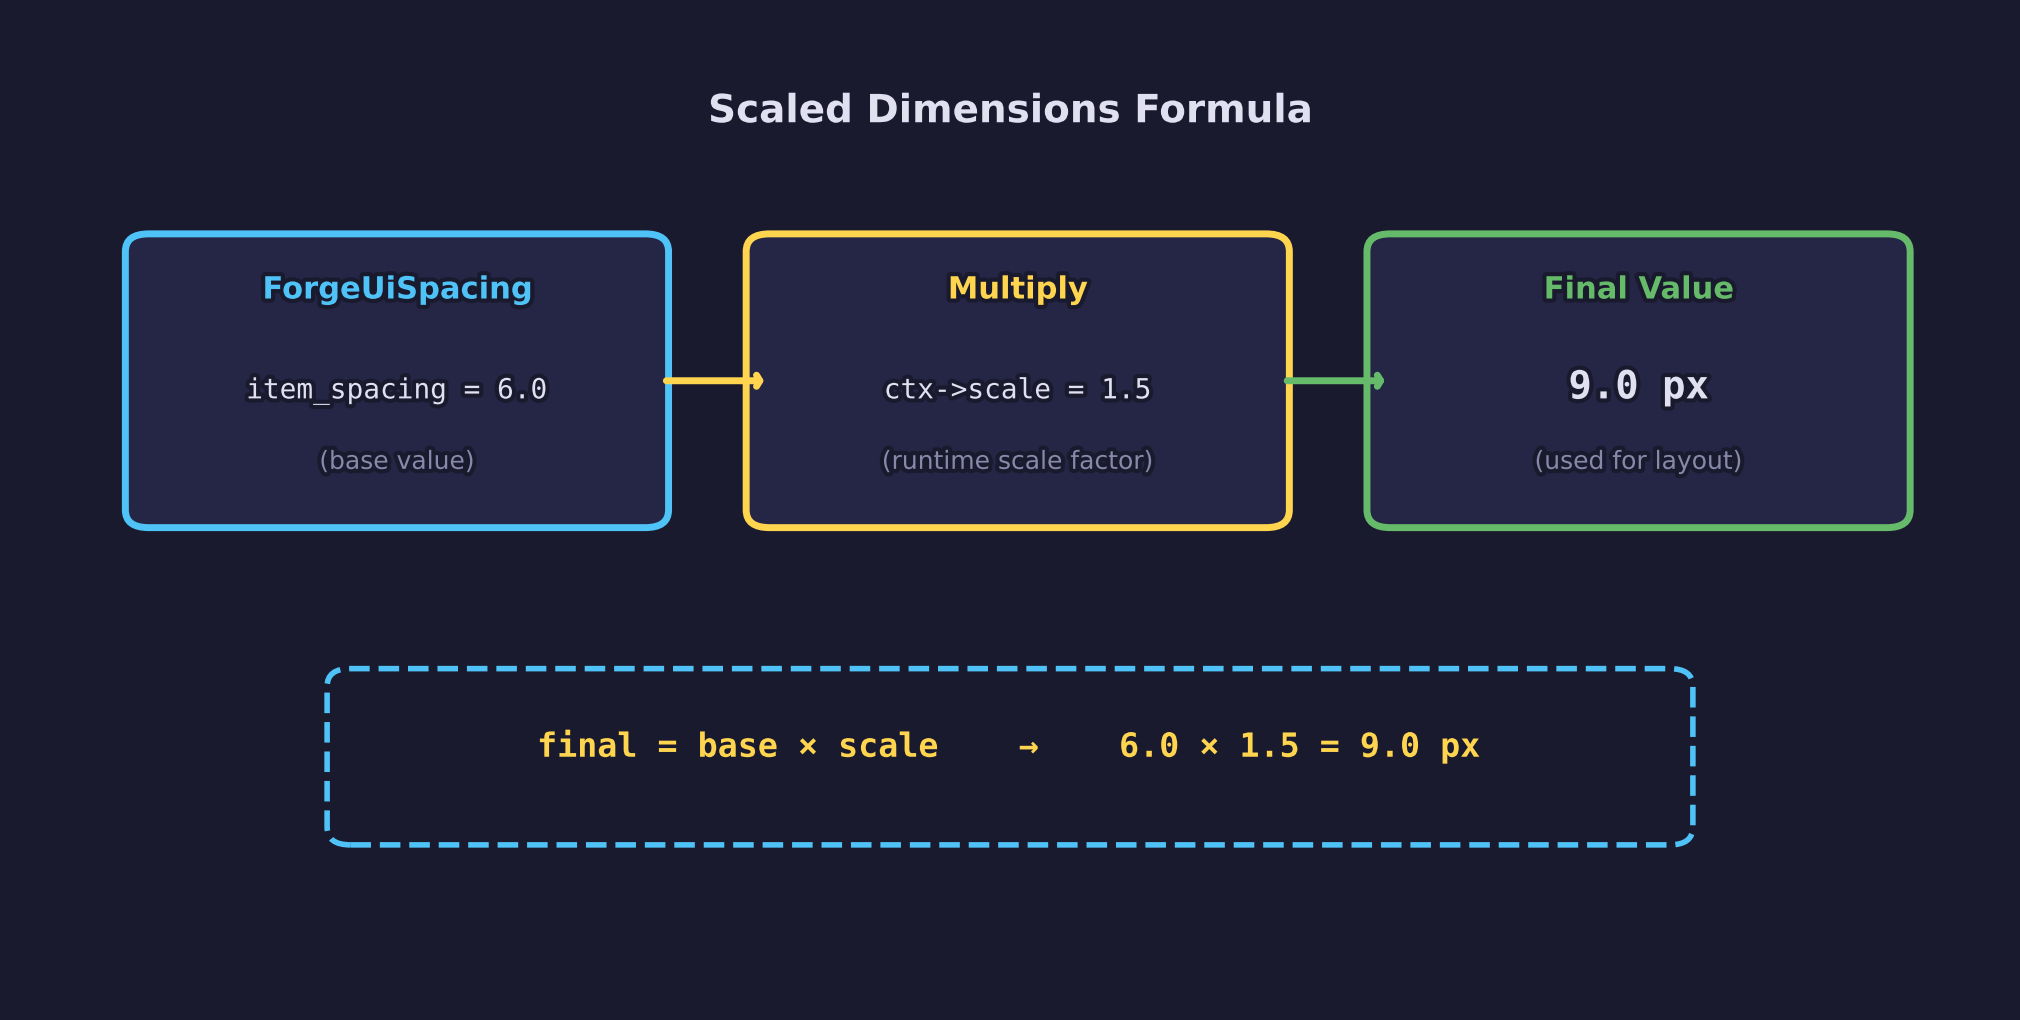
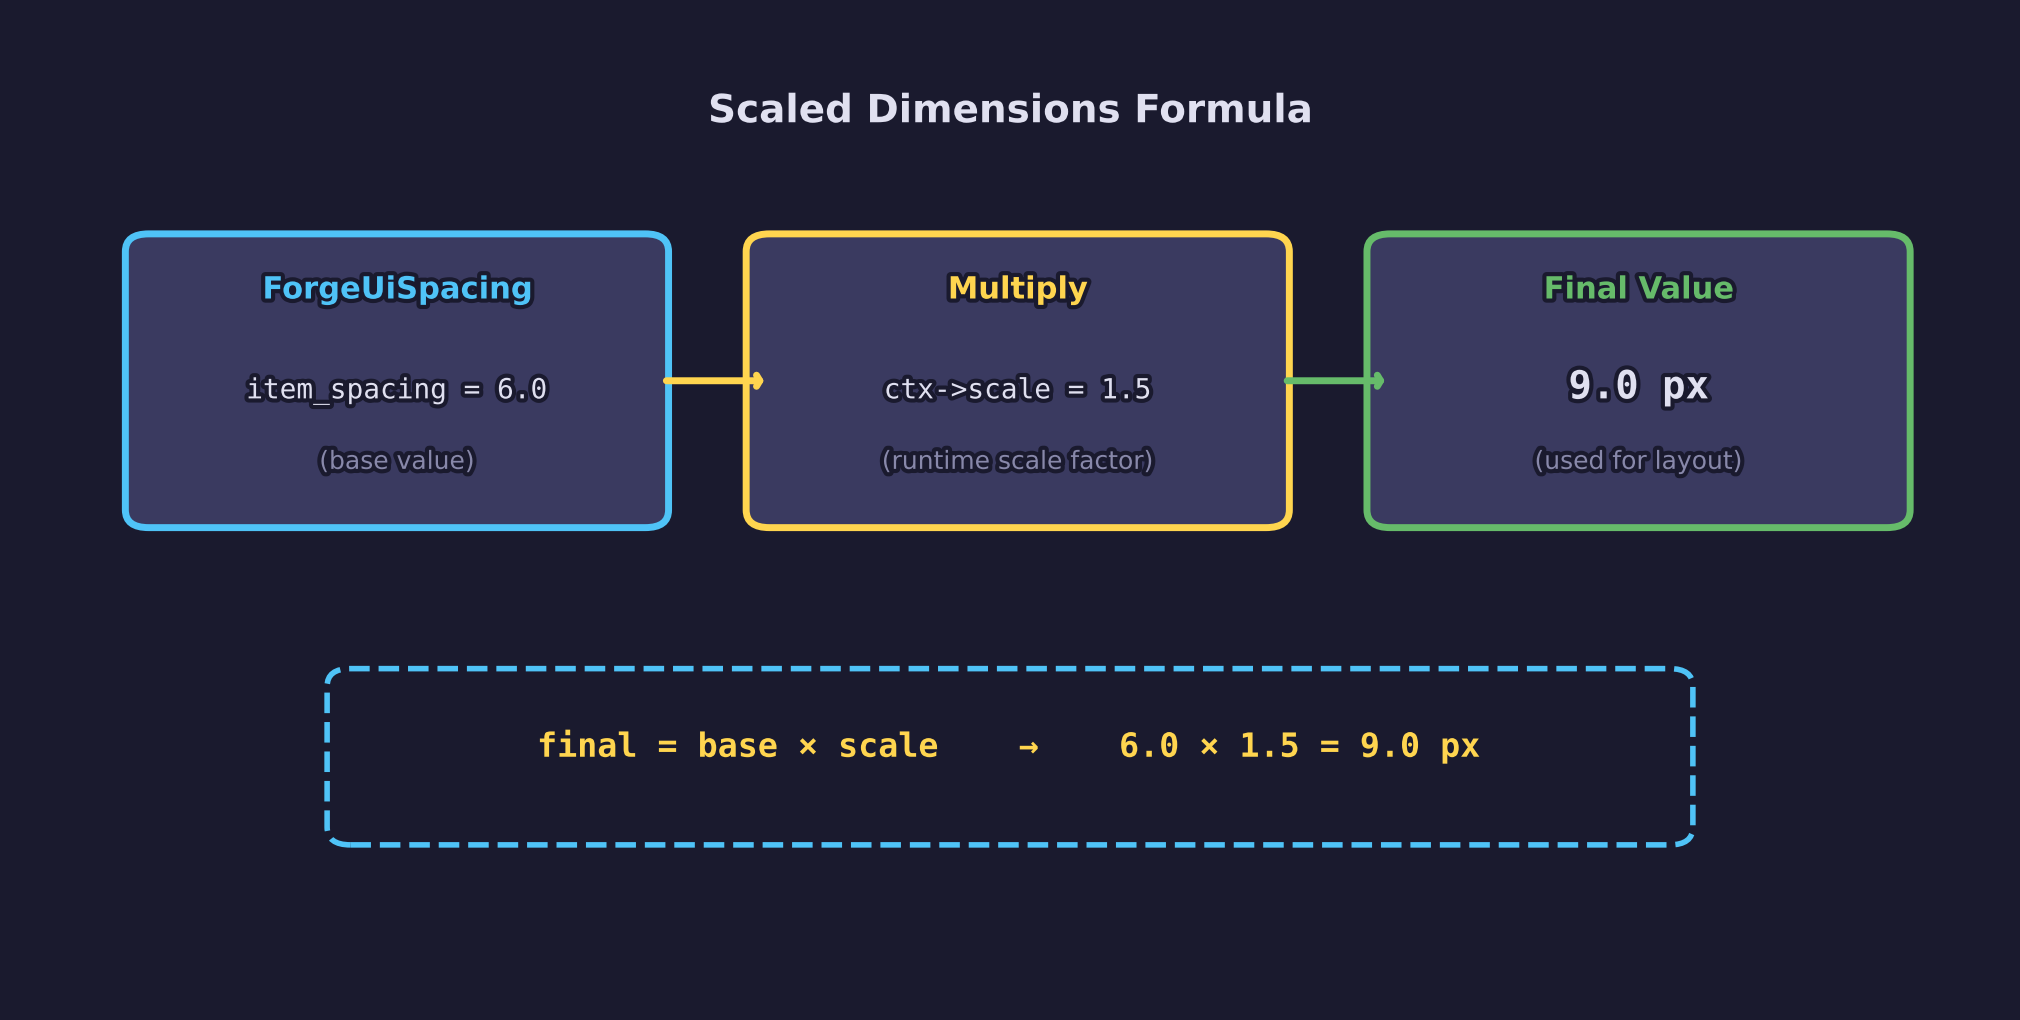
Improve UI widget contrast and address re-review feedback
Increase color contrast between panel backgrounds and interactive
widgets — title bars, buttons, slider tracks, and checkbox boxes were
all within ~8 RGB units of the panel body, making them indistinguishable.
New values give 16-30 units of separation per channel:

  - Title bar BG: +45% brighter than panel
  - Button normal: +30% brighter
  - Slider track: +30% brighter
  - Checkbox normal: +25% brighter

Also fixes the scaled_dimensions_formula diagram where box fills
(STYLE["surface"] #252545) were only 11 RGB units from the background
(#1a1a2e) — now uses #3a3a60 for clear visibility.

Addresses CodeRabbit re-review feedback:
  - Replace hardcoded loop bound 10 with sizeof-derived count
  - Add FORGE_UI_LAYOUT_EXPLICIT_ZERO constant for -1.0f sentinel
  - Add rects and memory cross-references to Further reading
  - Named constants for ASCII codepoint magic numbers in main.c

Changed region(s): [[0.3743, 0.2127, 0.9668, 0.5167], [0.0624, 0.2127, 0.3431, 0.5167]]

diff --git a/common/ui/forge_ui_ctx.h b/common/ui/forge_ui_ctx.h
@@ -57,6 +57,12 @@
  * must use non-zero IDs for their widgets. */
 #define FORGE_UI_ID_NONE  0
 
+/* Layout sentinel: pass as padding to forge_ui_ctx_layout_push to request
+ * explicit zero padding (no themed default substitution).  Positive values
+ * override the themed default; zero uses the themed default; this negative
+ * sentinel is clamped to 0 internally but skips the "use theme" path. */
+#define FORGE_UI_LAYOUT_EXPLICIT_ZERO  -1.0f
+
 /* Maximum nesting depth for the ID seed stack.  8 levels is enough for
  * most UI hierarchies (e.g. window > panel > row > widget).  The stack
  * is bounds-checked at runtime with SDL_Log on overflow/underflow. */
@@ -66,15 +72,16 @@
 
 /* Button appearance varies with interaction state.  Colors follow the
  * project's dark blue-gray theme (#1a1a2e background, #4fc3f7 accent).
- * All values are RGBA floats in [0, 1]. */
-#define FORGE_UI_BTN_NORMAL_R   0.145f
-#define FORGE_UI_BTN_NORMAL_G   0.176f
-#define FORGE_UI_BTN_NORMAL_B   0.290f
+ * Button normal is ~30% brighter than panel BG so it stands out as an
+ * interactive element.  All values are RGBA floats in [0, 1]. */
+#define FORGE_UI_BTN_NORMAL_R   0.180f
+#define FORGE_UI_BTN_NORMAL_G   0.216f
+#define FORGE_UI_BTN_NORMAL_B   0.353f
 #define FORGE_UI_BTN_NORMAL_A   1.00f
 
-#define FORGE_UI_BTN_HOT_R      0.180f
-#define FORGE_UI_BTN_HOT_G      0.220f
-#define FORGE_UI_BTN_HOT_B      0.376f
+#define FORGE_UI_BTN_HOT_R      0.224f
+#define FORGE_UI_BTN_HOT_G      0.271f
+#define FORGE_UI_BTN_HOT_B      0.427f
 #define FORGE_UI_BTN_HOT_A      1.00f
 
 #define FORGE_UI_BTN_ACTIVE_R   0.102f
@@ -102,20 +109,21 @@
  * ForgeUiSpacing.widget_padding. */
 #define FORGE_UI_WIDGET_PADDING   8.0f
 
-/* Box outline colors by state — themed dark navy (RGBA floats in [0, 1]) */
-#define FORGE_UI_CB_NORMAL_R    0.165f
-#define FORGE_UI_CB_NORMAL_G    0.200f
-#define FORGE_UI_CB_NORMAL_B    0.314f
+/* Box outline colors by state — brighter than panel BG so the unchecked
+ * box is clearly visible against the panel body.  (RGBA floats in [0, 1]) */
+#define FORGE_UI_CB_NORMAL_R    0.204f
+#define FORGE_UI_CB_NORMAL_G    0.247f
+#define FORGE_UI_CB_NORMAL_B    0.392f
 #define FORGE_UI_CB_NORMAL_A    1.00f
 
-#define FORGE_UI_CB_HOT_R       0.227f
-#define FORGE_UI_CB_HOT_G       0.290f
-#define FORGE_UI_CB_HOT_B       0.416f
+#define FORGE_UI_CB_HOT_R       0.267f
+#define FORGE_UI_CB_HOT_G       0.329f
+#define FORGE_UI_CB_HOT_B       0.475f
 #define FORGE_UI_CB_HOT_A       1.00f
 
-#define FORGE_UI_CB_ACTIVE_R    0.118f
-#define FORGE_UI_CB_ACTIVE_G    0.157f
-#define FORGE_UI_CB_ACTIVE_B    0.259f
+#define FORGE_UI_CB_ACTIVE_R    0.145f
+#define FORGE_UI_CB_ACTIVE_G    0.180f
+#define FORGE_UI_CB_ACTIVE_B    0.298f
 #define FORGE_UI_CB_ACTIVE_A    1.00f
 
 /* Inner fill color when checked (accent cyan #4fc3f7) */
@@ -141,10 +149,11 @@
 #define FORGE_UI_SL_THUMB_WIDTH   12.0f   /* thumb rectangle width */
 #define FORGE_UI_SL_THUMB_HEIGHT  22.0f   /* thumb rectangle height */
 
-/* Track background color — themed dark navy */
-#define FORGE_UI_SL_TRACK_R     0.145f
-#define FORGE_UI_SL_TRACK_G     0.176f
-#define FORGE_UI_SL_TRACK_B     0.290f
+/* Track background color — brighter than panel BG so the slider rail
+ * is visible inside the panel body. */
+#define FORGE_UI_SL_TRACK_R     0.180f
+#define FORGE_UI_SL_TRACK_G     0.216f
+#define FORGE_UI_SL_TRACK_B     0.353f
 #define FORGE_UI_SL_TRACK_A     1.00f
 
 /* Thumb color varies with interaction state to give visual feedback
@@ -228,10 +237,11 @@
 #define FORGE_UI_PANEL_BG_B     0.282f
 #define FORGE_UI_PANEL_BG_A     1.00f
 
-/* Title bar background RGBA — brighter navy to distinguish from body */
-#define FORGE_UI_PANEL_TITLE_BG_R   0.145f
-#define FORGE_UI_PANEL_TITLE_BG_G   0.188f
-#define FORGE_UI_PANEL_TITLE_BG_B   0.314f
+/* Title bar background RGBA — notably brighter than panel BG so the
+ * header is the most prominent chrome element.  ~45% brighter. */
+#define FORGE_UI_PANEL_TITLE_BG_R   0.200f
+#define FORGE_UI_PANEL_TITLE_BG_G   0.243f
+#define FORGE_UI_PANEL_TITLE_BG_B   0.400f
 #define FORGE_UI_PANEL_TITLE_BG_A   1.00f
 
 /* Title bar text color — matches theme text #e0e0f0 */
@@ -1370,7 +1380,7 @@ static inline void forge_ui_ctx_begin(ForgeUiContext *ctx,
             { &ctx->spacing.text_input_padding,  FORGE_UI_TI_PADDING,          "text_input_padding" },
             { &ctx->spacing.scrollbar_width,     FORGE_UI_SCROLLBAR_WIDTH,     "scrollbar_width" },
         };
-        for (int i = 0; i < 10; i++) {
+        for (int i = 0; i < (int)(sizeof(checks) / sizeof(checks[0])); i++) {
             if (!isfinite(*checks[i].field) || *checks[i].field < 0.0f) {
                 SDL_Log("forge_ui_ctx_begin: invalid spacing.%s = %.4f, "
                         "resetting to %.1f",
@@ -2452,12 +2462,13 @@ static inline bool forge_ui_ctx_panel_begin(ForgeUiContext *ctx,
     /* ── Push a vertical layout (no extra padding, 8px spacing between
      *    child widgets) so children fill the content width and stack
      *    downward with consistent gaps. ───────────────────────────────── */
-    /* Pass -1 for padding so layout_push treats it as explicit zero
-     * (no default substitution) — the content rect already accounts
-     * for panel padding.  Spacing uses the themed item_spacing. */
+    /* Pass FORGE_UI_LAYOUT_EXPLICIT_ZERO for padding so layout_push
+     * treats it as explicit zero (no default substitution) — the
+     * content rect already accounts for panel padding.  Spacing uses
+     * the themed item_spacing. */
     if (!forge_ui_ctx_layout_push(ctx, content,
                                    FORGE_UI_LAYOUT_VERTICAL,
-                                   -1.0f,
+                                   FORGE_UI_LAYOUT_EXPLICIT_ZERO,
                                    FORGE_UI_SCALED(ctx, ctx->spacing.item_spacing))) {
         SDL_Log("forge_ui_ctx_panel_begin: layout_push failed (stack full?)");
         ctx->has_clip = false;

diff --git a/lessons/ui/12-font-scaling-and-spacing/main.c b/lessons/ui/12-font-scaling-and-spacing/main.c
@@ -64,13 +64,17 @@
 #define ACCENT_B  0.969f
 #define ACCENT_A  1.00f
 
-/* ASCII printable codepoints (32-126) for atlas building */
-static Uint32 codepoints[95];
+/* ASCII printable codepoints (space 0x20 through tilde 0x7E) */
+#define ASCII_PRINTABLE_START  32   /* first printable ASCII codepoint (space) */
+#define ASCII_PRINTABLE_COUNT  95   /* number of printable ASCII chars (32-126) */
+#define ATLAS_GLYPH_PADDING     2   /* pixels between packed glyphs in atlas */
+
+static Uint32 codepoints[ASCII_PRINTABLE_COUNT];
 
 static void init_codepoints(void)
 {
-    for (int i = 0; i < 95; i++) {
-        codepoints[i] = (Uint32)(32 + i);
+    for (int i = 0; i < ASCII_PRINTABLE_COUNT; i++) {
+        codepoints[i] = (Uint32)(ASCII_PRINTABLE_START + i);
     }
 }
 
@@ -125,7 +129,8 @@ static bool scaled_ui_init(ScaledUI *sui, const ForgeUiFont *font,
      * must be rebuilt at the target size, not stretched. */
     float atlas_px = BASE_PIXEL_HEIGHT * scale;
 
-    if (!forge_ui_atlas_build(font, atlas_px, codepoints, 95, 2,
+    if (!forge_ui_atlas_build(font, atlas_px, codepoints,
+                              ASCII_PRINTABLE_COUNT, ATLAS_GLYPH_PADDING,
                               &sui->atlas)) {
         SDL_Log("Failed to build atlas at scale %.2f", (double)scale);
         return false;

diff --git a/scripts/forge_diagrams/ui_diagrams.py b/scripts/forge_diagrams/ui_diagrams.py
@@ -9897,6 +9897,11 @@ def diagram_scaled_dimensions_formula():
     ax.axis("off")
     stroke = [pe.withStroke(linewidth=3, foreground=STYLE["bg"])]
 
+    # Lighter fill for boxes so they are clearly distinguishable from the
+    # diagram background (#1a1a2e).  STYLE["surface"] (#252545) is only ~11
+    # RGB units brighter — not enough.  #3a3a60 gives ~32 units of contrast.
+    box_fill = "#3a3a60"
+
     ax.text(
         5.75,
         6.3,
@@ -9916,7 +9921,7 @@ def diagram_scaled_dimensions_formula():
         box1_w,
         box1_h,
         boxstyle="round,pad=0.15",
-        facecolor=STYLE["surface"],
+        facecolor=box_fill,
         edgecolor=STYLE["accent1"],
         linewidth=2.5,
     )
@@ -9971,7 +9976,7 @@ def diagram_scaled_dimensions_formula():
         box2_w,
         box2_h,
         boxstyle="round,pad=0.15",
-        facecolor=STYLE["surface"],
+        facecolor=box_fill,
         edgecolor=STYLE["warn"],
         linewidth=2.5,
     )
@@ -10026,7 +10031,7 @@ def diagram_scaled_dimensions_formula():
         box3_w,
         box3_h,
         boxstyle="round,pad=0.15",
-        facecolor=STYLE["surface"],
+        facecolor=box_fill,
         edgecolor=STYLE["accent3"],
         linewidth=2.5,
     )

diff --git a/common/ui/forge_ui_window.h b/common/ui/forge_ui_window.h
@@ -906,12 +906,13 @@ static inline bool forge_ui_wctx_window_begin(ForgeUiWindowContext *wctx,
     ctx->_panel.id = id;
     ctx->_panel_active = true;
 
-    /* Pass -1 for padding so layout_push treats it as explicit zero
-     * (no default substitution) — the content rect already accounts
-     * for window padding.  Spacing uses the themed item_spacing. */
+    /* Pass FORGE_UI_LAYOUT_EXPLICIT_ZERO for padding so layout_push
+     * treats it as explicit zero (no default substitution) — the
+     * content rect already accounts for window padding.  Spacing
+     * uses the themed item_spacing. */
     if (!forge_ui_ctx_layout_push(ctx, content,
                                    FORGE_UI_LAYOUT_VERTICAL,
-                                   -1.0f,
+                                   FORGE_UI_LAYOUT_EXPLICIT_ZERO,
                                    FORGE_UI_SCALED(ctx, ctx->spacing.item_spacing))) {
         SDL_Log("forge_ui_wctx_window_begin: layout_push failed");
         ctx->has_clip = false;

diff --git a/lessons/ui/12-font-scaling-and-spacing/README.md b/lessons/ui/12-font-scaling-and-spacing/README.md
@@ -286,8 +286,12 @@ three-scale comparison and the spacing override comparison.
   uses themed spacing defaults
 - [Math Lesson 01 — Vectors](../../math/01-vectors/) provides the vec2
   arithmetic used for position and size calculations throughout the UI
+- [Math Lesson 02 — Coordinate Spaces](../../math/02-coordinate-spaces/)
+  covers the screen-space rect math used for widget bounds and layout
 - [Engine Lesson 01 — Intro to C](../../engine/01-intro-to-c/) covers the
   struct and `#define` conventions used for `ForgeUiSpacing`
+- [Engine Lesson 04 — Pointers and Memory](../../engine/04-pointers-and-memory/)
+  explains the allocation patterns behind dynamic vertex/index buffers
 - [Apple Human Interface Guidelines — Layout](https://developer.apple.com/design/human-interface-guidelines/layout)
   discusses scaling and spacing in production UI systems
 - [Windows DPI Awareness](https://learn.microsoft.com/en-us/windows/win32/hidpi/high-dpi-desktop-application-development-on-windows)
